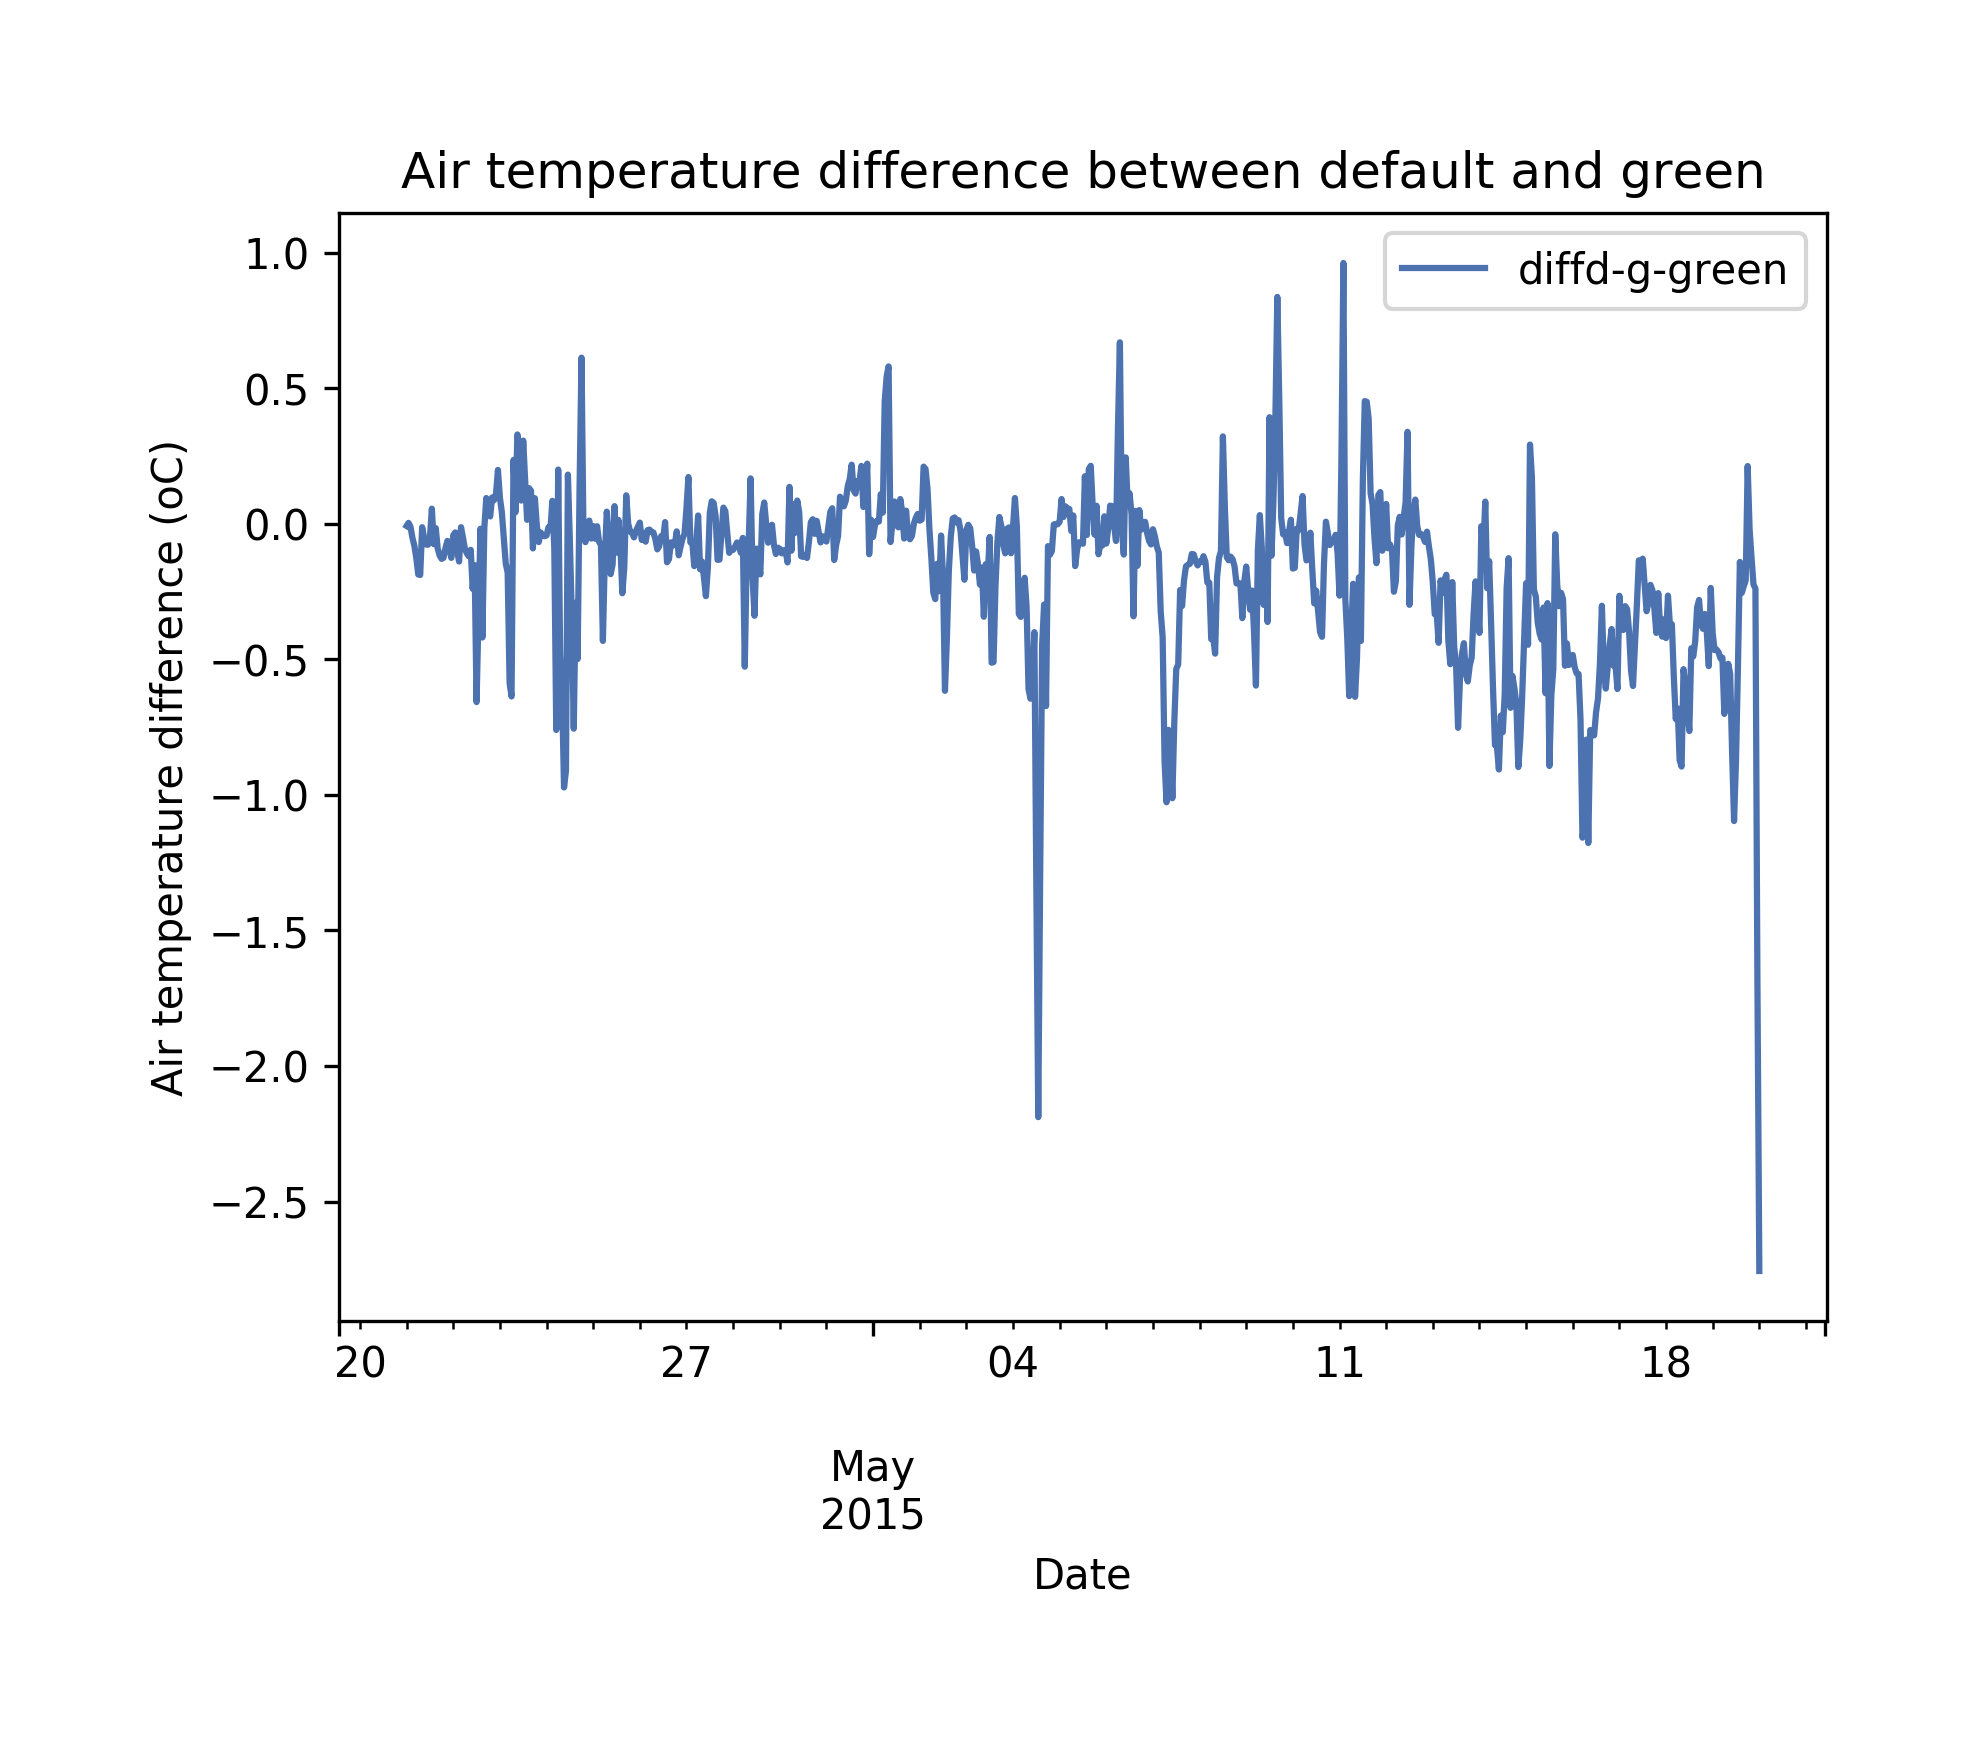
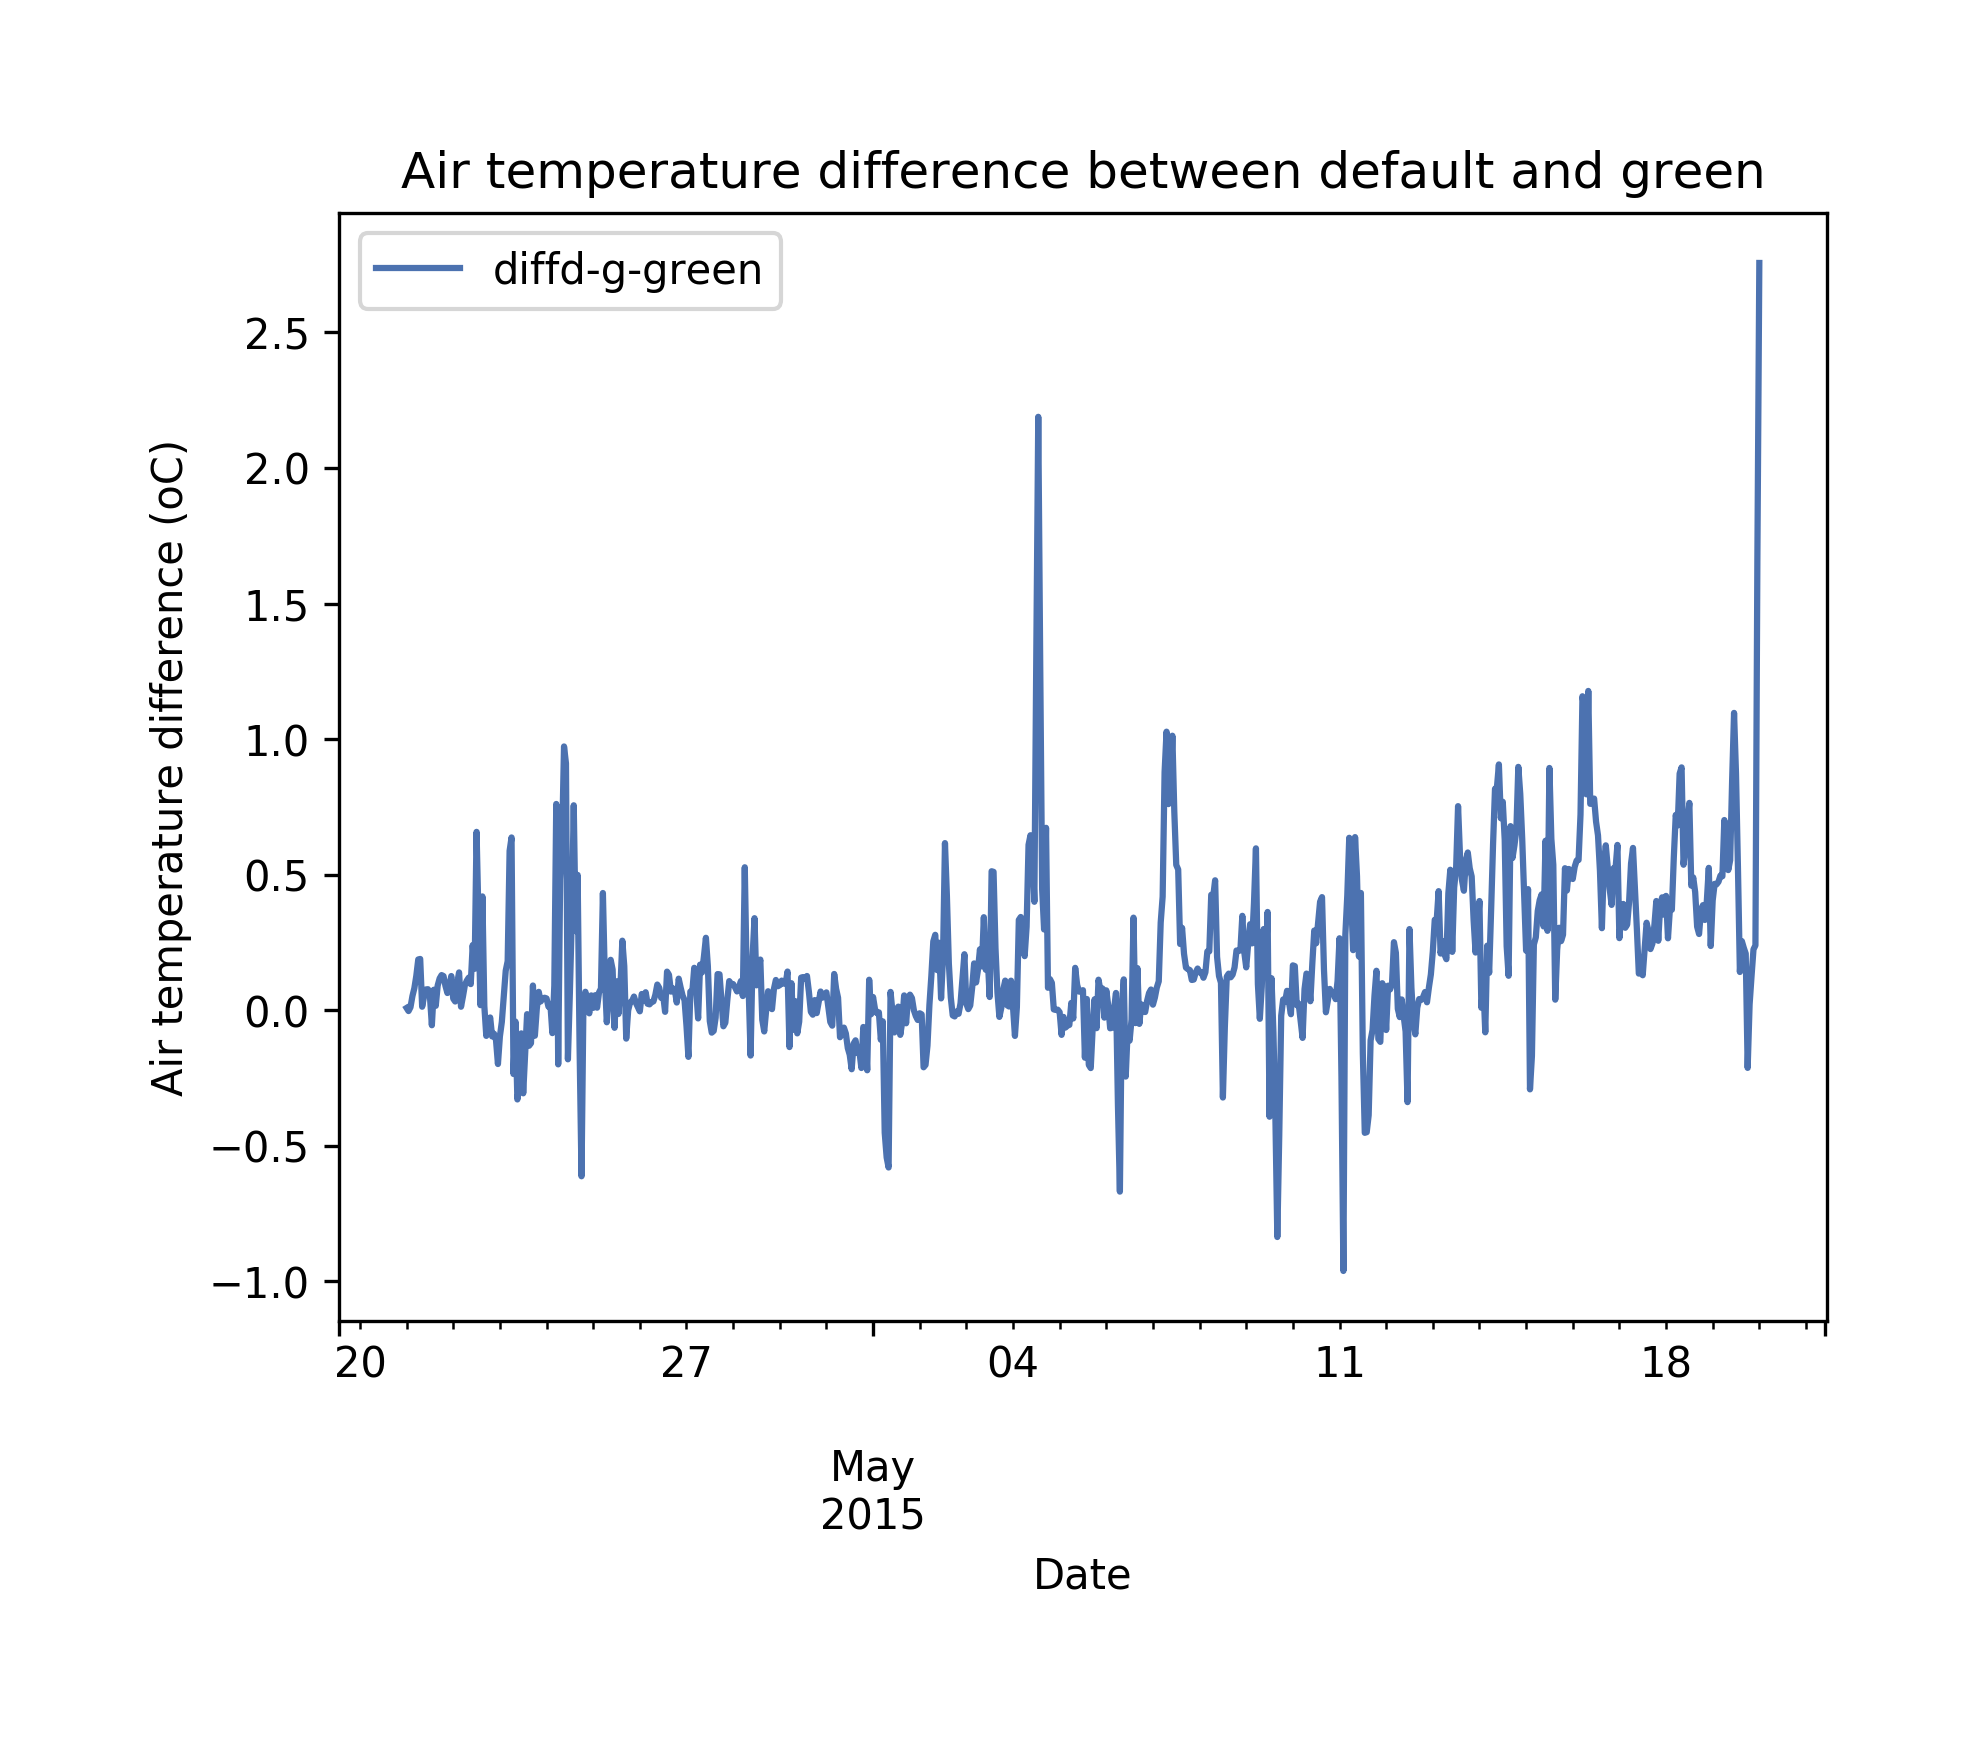
Difference graphs in R

diff --git a/pyallTS2.py b/pyallTS2.py
@@ -87,7 +87,7 @@ df3=df3.resample('1H').mean()
 
 # Plot differences in air temperature
 #Difference Green
-df1['diffd-g-green'] = (df1['t']-df2['t'])
+df1['diffd-g-green'] = (df2['t']-df1['t'])
 #Difference evergreen
 df1['diffd-g-evergreen'] = (df1['t']-df3['t'])
 
